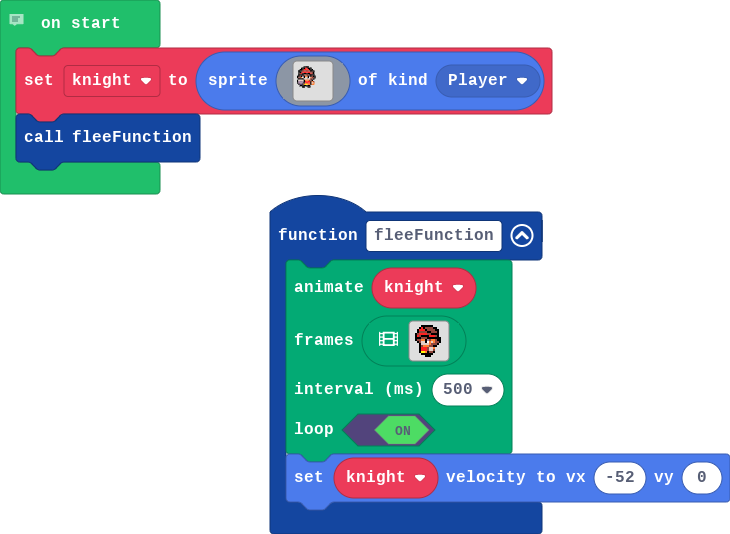
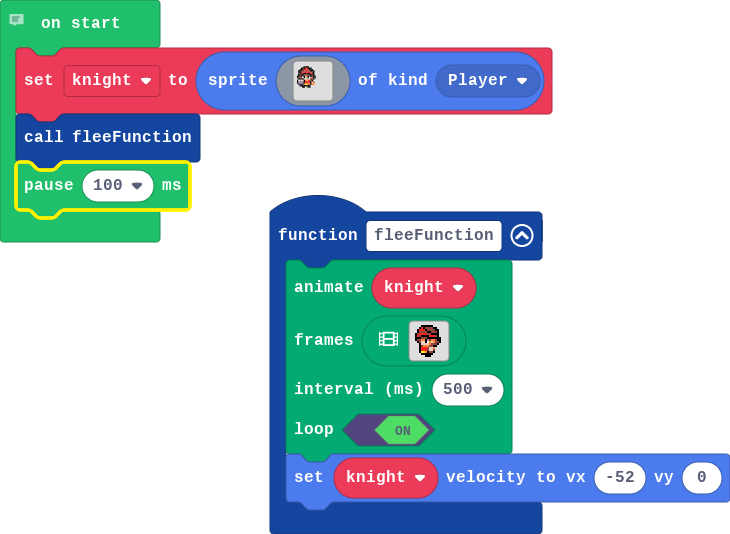
hhhhhh

Changed region(s): [[0.0, 0.2996, 0.2712, 0.4794]]

diff --git a/main.ts b/main.ts
@@ -104,3 +104,4 @@ knight = sprites.create(img`
     ........................
     `, SpriteKind.Player)
 fleeFunction()
+pause(100)
